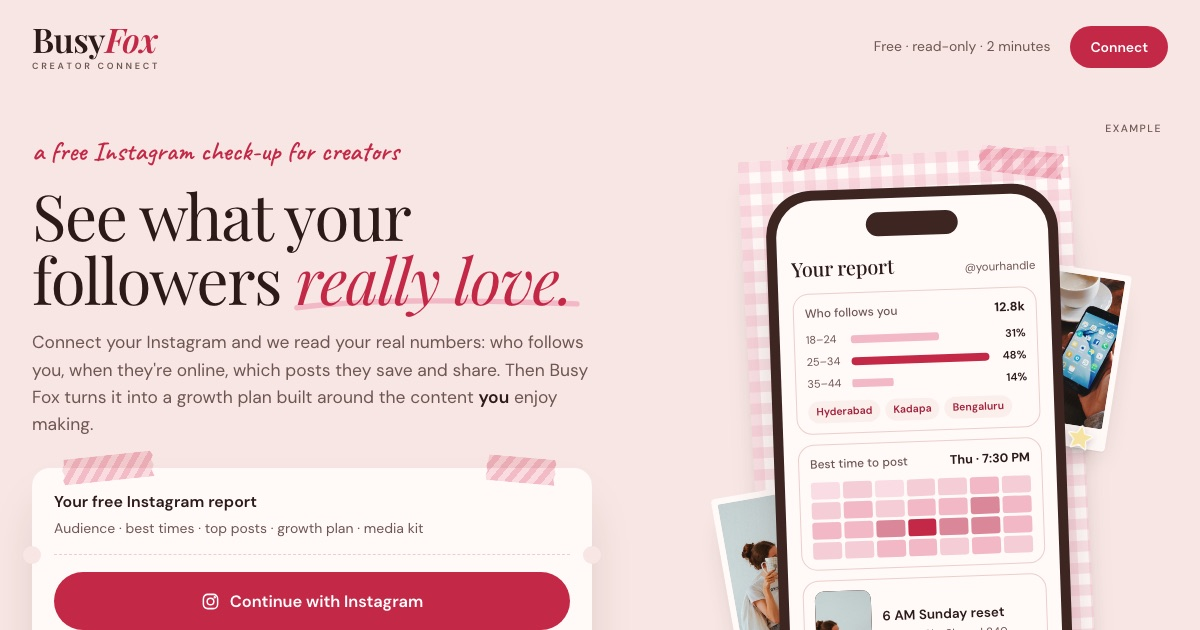
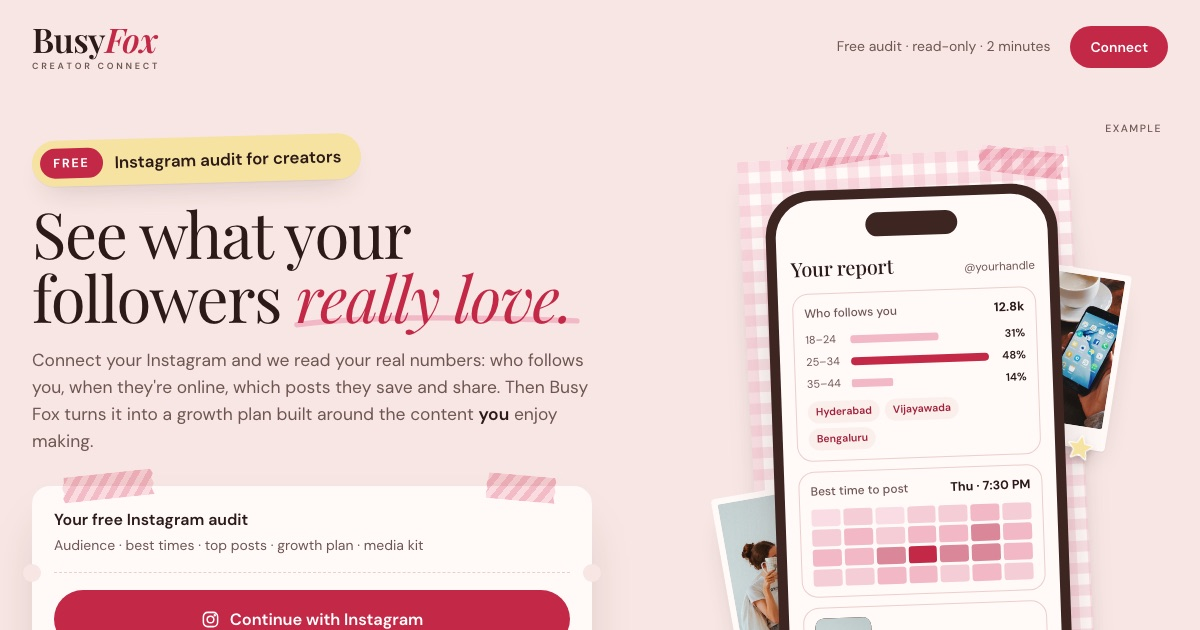
Highlight: Free Instagram audit for creators; Unified login step copy

diff --git a/index.html b/index.html
@@ -3,13 +3,13 @@
 <head>
 <meta charset="utf-8">
 <meta name="viewport" content="width=device-width, initial-scale=1, viewport-fit=cover">
-<title>Your free Instagram report | Busy Fox</title>
+<title>Free Instagram audit for creators | Busy Fox</title>
 <meta name="description" content="Connect your Instagram and see who really follows you, when they're online and which posts they love, plus a growth plan built around what you enjoy making. Free, read-only, two minutes.">
 <meta name="robots" content="noindex">
 <meta name="theme-color" content="#F7E6E3">
 <meta property="og:type" content="website">
-<meta property="og:title" content="See what your followers really love">
-<meta property="og:description" content="A free Instagram report and growth plan from Busy Fox. Read-only, two minutes, your password stays with Instagram.">
+<meta property="og:title" content="Free Instagram audit for creators">
+<meta property="og:description" content="See what your followers really love, plus a growth plan built around you. Free, read-only, two minutes. Your password stays with Instagram.">
 <meta property="og:image" content="https://work.busyfox.in/creator-connect/assets/og.jpg">
 <meta property="og:url" content="https://work.busyfox.in/creator-connect/">
 <meta name="twitter:card" content="summary_large_image">
@@ -20,6 +20,9 @@
 <link rel="stylesheet" href="assets/cc.css">
 <style>
 /* ---------- hero ---------- */
+.badge { align-self: flex-start; display: inline-flex; align-items: center; gap: 12px; margin: 0; padding: 8px 20px 8px 8px; border-radius: 999px; background: var(--butter); color: var(--ink); font: 600 17px/1.2 var(--sans); letter-spacing: -.005em; box-shadow: var(--soft); transform: rotate(-1.5deg); }
+.badge b { display: inline-flex; align-items: center; height: 30px; padding: 0 13px; border-radius: 999px; background: var(--cherry); color: #fff; font-size: 12.5px; font-weight: 700; letter-spacing: .14em; text-transform: uppercase; }
+@media (max-width: 480px) { .badge { font-size: 15px; gap: 10px; padding: 6px 16px 6px 6px; } .badge b { height: 27px; font-size: 11.5px; padding: 0 11px; } }
 .hero { display: grid; grid-template-columns: minmax(0, 1.08fr) minmax(0, .92fr); gap: 48px 64px; padding-block: 8px 104px; align-items: start; }
 .hero-l { display: flex; flex-direction: column; gap: 18px; min-width: 0; padding-top: 18px; }
 .hero-l .hand { font-size: 27px; }
@@ -206,20 +209,20 @@
 <div class="wrap">
 	<header class="head">
 		<a class="logo" href="https://busyfox.in" aria-label="Busy Fox"><span class="mast">Busy<em>Fox</em></span><span class="sub" aria-hidden="true"><span>C</span><span>R</span><span>E</span><span>A</span><span>T</span><span>O</span><span>R</span><span>&nbsp;</span><span>C</span><span>O</span><span>N</span><span>N</span><span>E</span><span>C</span><span>T</span></span></a>
-		<div class="head-r"><span class="when">Free · read-only · 2 minutes</span><button class="btn red js-connect" type="button">Connect</button></div>
+		<div class="head-r"><span class="when">Free audit · read-only · 2 minutes</span><button class="btn red js-connect" type="button">Connect</button></div>
 	</header>
 
 	<main>
 	<!-- HERO -->
 	<section class="hero pt" data-cta>
 		<div class="hero-l">
-			<p class="hand">a free Instagram check-up for creators</p>
+			<p class="badge"><b>Free</b>Instagram audit for creators</p>
 			<h1>See what your followers <em>really love.<svg class="swash" viewBox="0 0 300 30" preserveAspectRatio="none" aria-hidden="true"><path pathLength="1" d="M4 20 C 70 8, 150 6, 296 14"/></svg></em></h1>
 			<p class="lede">Connect your Instagram and we read your real numbers: who follows you, when they're online, which posts they save and share. Then Busy Fox turns it into a growth plan built around the content <b style="color:var(--ink);font-weight:600">you</b> enjoy making.</p>
 
 			<div class="ticket">
 				<span class="tape t1"></span><span class="tape t2"></span>
-				<div class="tk-h"><b>Your free Instagram report</b><span>Audience · best times · top posts · growth plan · media kit</span></div>
+				<div class="tk-h"><b>Your free Instagram audit</b><span>Audience · best times · top posts · growth plan · media kit</span></div>
 				<button class="btn red js-connect" type="button">
 					<svg viewBox="0 0 24 24" fill="none" stroke="currentColor" stroke-width="1.9" stroke-linecap="round" stroke-linejoin="round" aria-hidden="true"><rect x="3" y="3" width="18" height="18" rx="5.5"/><circle cx="12" cy="12" r="4.2"/><circle cx="17.4" cy="6.6" r=".6" fill="currentColor"/></svg>
 					Continue with Instagram
@@ -412,7 +415,7 @@
 			</div>
 			<div class="step" data-in style="--dl:.2s">
 				<h3>Tap Allow</h3>
-				<p>Tap Continue with Instagram, check it's your account and tap Allow. Then tell us what you love making.</p>
+				<p>Tap Continue with Instagram, sign in and pick your account, then tap Allow. If Meta asks for a business portfolio, create one with your name; it's free.</p>
 				<span class="hand">that's it!</span>
 			</div>
 		</div>
